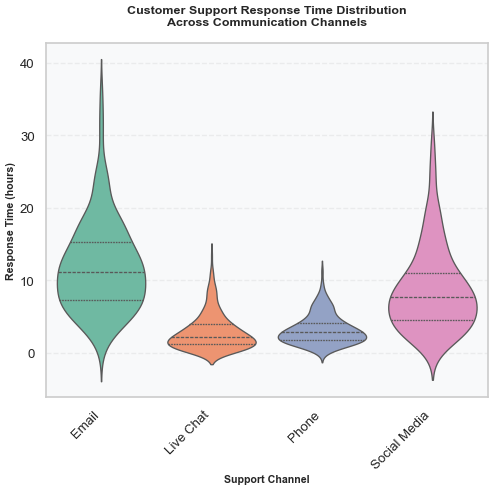
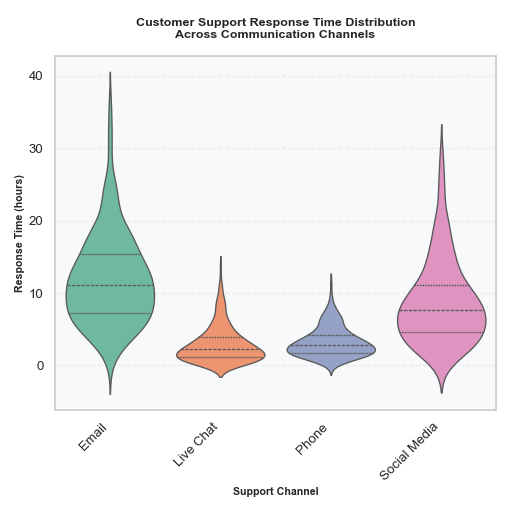
awdw

diff --git a/chart.py b/chart.py
@@ -35,7 +35,7 @@ sns.set_style("whitegrid")
 sns.set_context("talk", font_scale=0.9)
 
 # Create figure with specified dimensions for 512x512 output
-plt.figure(figsize=(8, 8))
+fig = plt.figure(figsize=(8, 8))
 
 # Create violinplot with professional styling
 ax = sns.violinplot(
@@ -67,8 +67,9 @@ ax.set_facecolor('#f8f9fa')
 # Adjust layout to prevent label cutoff
 plt.tight_layout()
 
-# Save the chart with exact specifications
-plt.savefig('chart.png', dpi=64, bbox_inches='tight')
+# Save the chart with exact 512x512 pixel dimensions
+# Remove bbox_inches='tight' to maintain exact dimensions
+plt.savefig('chart.png', dpi=64)
 print("Chart successfully generated and saved as 'chart.png'")
 print(f"Total samples analyzed: {len(data)}")
 print("\nResponse Time Statistics by Channel:")
